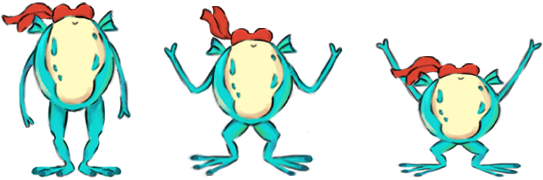
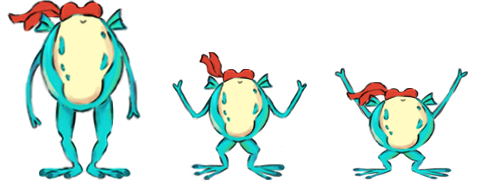
- Updated animations

diff --git a/Game-Jam/BoxML.cpp b/Game-Jam/BoxML.cpp
@@ -338,7 +338,11 @@ bfPlayer* BoxML::CreatePlayer(const b2BodyType bodyType, const b2Vec2 position, 
 	AddObject(bfObj);
 
 	if (loadSprite)
-		bfObj->loadSpriteSheet("Assets/characters/frog.png", size.x, size.y, 0, 0, 3, 3, _timer.getElapsedTime().asSeconds(), 0.17f);
+	{
+		bfObj->loadSpriteSheet("Assets/characters/frog.png", size.x, size.y, 0, 0, 3, 3, _timer.getElapsedTime().asSeconds(), 0.25f);
+		//bfObj->loadSpriteSheet("Assets/characters/frog4.png", 165, 192, 0, 0, 4, 4, _timer.getElapsedTime().asSeconds(), 0.17f);
+		//bfObj->loadSpriteSheet("Assets/characters/frog4_fixed.png", 150, 192, 0, 0, 4, 4, _timer.getElapsedTime().asSeconds(), 0.17f);
+	}
 
 	bfObj->setScale({ 0.7f, 0.7f });
 

diff --git a/Game-Jam/def.h b/Game-Jam/def.h
@@ -16,8 +16,8 @@
 #define PLAYGROUND_MARGIN_TOP     135
 #define PLAYGROUND_MARGIN_BOTTOM  145
 
-#define PLAYER_WIDTH              181
-#define PLAYER_HEIGHT             180
+#define PLAYER_WIDTH              160
+#define PLAYER_HEIGHT             182
 #define WALL_VERTICAL_WIDTH       50
 #define WALL_VERTICAL_HEIGHT      119
 #define WALL_HORIZONTAL_WIDTH     178

diff --git a/Game-Jam/BoxML.h b/Game-Jam/BoxML.h
@@ -40,7 +40,7 @@ private:
 	bool _hasLost;
 
 	bfObject* _previewObject = nullptr;
-	ObjectCategory _currentPreviewType = ObjectCategory::Wall;
+	ObjectCategory _currentPreviewType = ObjectCategory::None;
 	float _previewRotation;
 
 	bfObject* _placedWall = nullptr;

diff --git a/Game-Jam/ObjectCategory.h b/Game-Jam/ObjectCategory.h
@@ -2,6 +2,7 @@
 
 enum class ObjectCategory : unsigned short
 {
+	None = 0,
 	Player = 1,
 	Wall_Vertical = 2,
 	Wall_Horizontal = 4,
